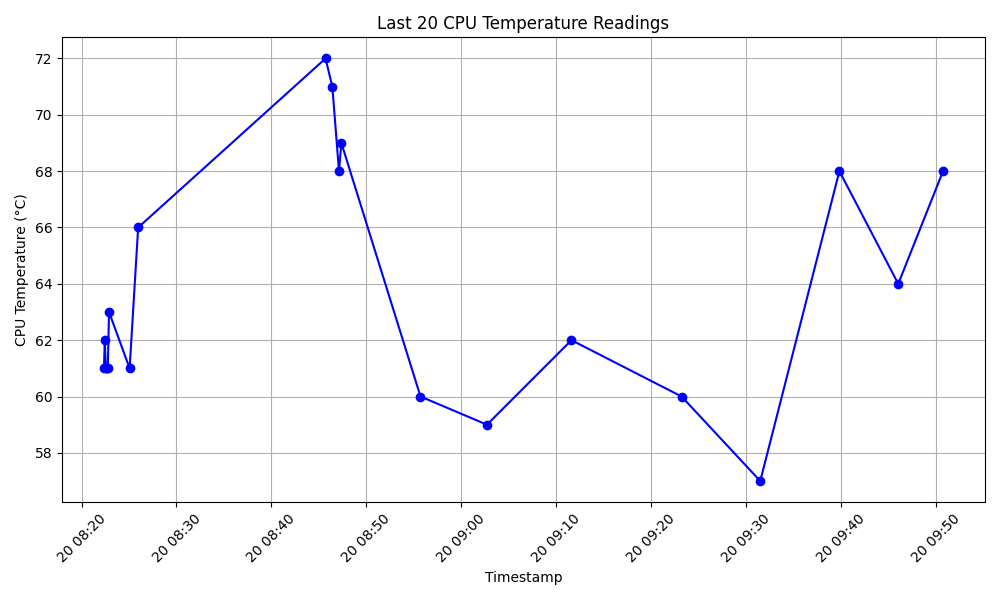
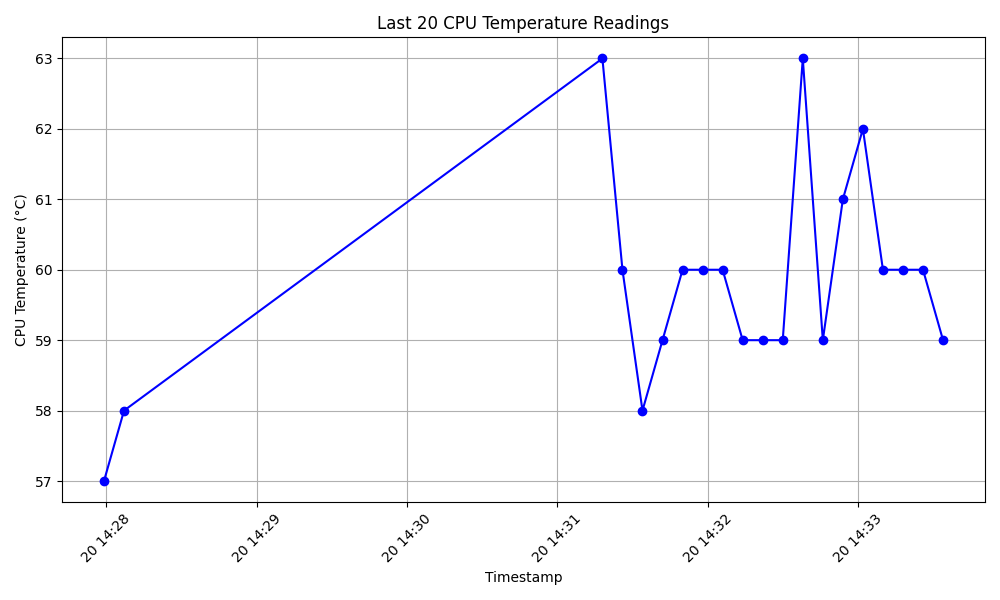
README.md

diff --git a/main.py b/main.py
@@ -7,8 +7,8 @@ import threading
 import csv # Added import for csv
 
 LOG_FILE = "cpu_temp_log.csv"
-INTERVAL = 500  # seconds
-WEBHOOK_URL = "https://d61a62db74d9.ngrok-free.app/webhook-test/d65403f4-08fb-4256-84b1-ab8e3d057988"
+INTERVAL = 8  # seconds
+WEBHOOK_URL = "https://d61a62db74d9.ngrok-free.app/webhook/d65403f4-08fb-4256-84b1-ab8e3d057988"
 app = Flask(__name__)
 
 def get_cpu_temp():
@@ -79,6 +79,7 @@ def receive_message_endpoint():
                 chart_message = "CPU temperature chart generated and saved as 'cpu_temp_chart.png'."
                 print(chart_message)
                 send_alert_to_webhook({"message": chart_message, "chart_generated": True})
+                send_alert_to_webhook("chart-finish") # Send "chart-finish" message
                 return jsonify({"status": "success", "action": "chart_generated", "message": chart_message}), 200
             except subprocess.CalledProcessError as e:
                 error_message = f"Error executing chart.py: {e}"
@@ -100,29 +101,29 @@ def serve_cpu_chart():
     except Exception as e:
         return jsonify({"status": "error", "message": f"Error serving chart: {e}"}), 500
 
-# def log_cpu_temp_periodically():
-#     print(f"Logging CPU temperature every {INTERVAL} seconds. Press Ctrl+C to stop.")
-#     with open(LOG_FILE, 'a') as f:
-#         # Write header if file is new or empty
-#         if f.tell() == 0:
-#             f.write("Timestamp,CPU_Temp_C\n")
+def log_cpu_temp_periodically():
+    print(f"Logging CPU temperature every {INTERVAL} seconds. Press Ctrl+C to stop.")
+    with open(LOG_FILE, 'a') as f:
+        # Write header if file is new or empty
+        if f.tell() == 0:
+            f.write("Timestamp,CPU_Temp_C\n")
 
-#         while True:
-#             timestamp = datetime.datetime.now().strftime("%Y-%m-%d %H:%M:%S")
-#             cpu_temp = get_cpu_temp()
+        while True:
+            timestamp = datetime.datetime.now().strftime("%Y-%m-%d %H:%M:%S")
+            cpu_temp = get_cpu_temp()
 
-#             if cpu_temp is not None:
-#                 log_entry = f"{timestamp},{cpu_temp}\n"
-#                 f.write(log_entry)
-#                 f.flush()  # Ensure data is written to the file immediately
-#                 print(f"Logged: {log_entry.strip()}")
-#                 if cpu_temp > 60.0:
-#                     print("CPU temperature is high!")
-#                     # send_alert_to_webhook("hight")
-#             else:
-#                 print(f"Logged: {timestamp},Could not read temp") # Log if temp couldn't be read
+            if cpu_temp is not None:
+                log_entry = f"{timestamp},{cpu_temp}\n"
+                f.write(log_entry)
+                f.flush()  # Ensure data is written to the file immediately
+                print(f"Logged: {log_entry.strip()}")
+                if cpu_temp > 55.0:
+                    print("CPU temperature is high!")
+                    send_alert_to_webhook("hight")
+            else:
+                print(f"Logged: {timestamp},Could not read temp") # Log if temp couldn't be read
 
-#             time.sleep(INTERVAL)
+            time.sleep(INTERVAL)
 
 def get_last_n_data_points(n=10):
     try:
@@ -169,9 +170,9 @@ def send_last_n_data_points_to_webhook():
 
 if __name__ == "__main__":
     # Start CPU temperature logging in a separate thread
-    # logging_thread = threading.Thread(target=log_cpu_temp_periodically)
-    # logging_thread.daemon = True  # Allow the main program to exit even if this thread is running
-    # logging_thread.start()
+    logging_thread = threading.Thread(target=log_cpu_temp_periodically)
+    logging_thread.daemon = True  # Allow the main program to exit even if this thread is running
+    logging_thread.start()
 
     # Start sending last data point to webhook every 6 seconds in a separate thread
     # send_data_6_sec_thread = threading.Thread(target=send_last_data_periodically_6_sec)

diff --git a/README.md b/README.md
@@ -1,0 +1,173 @@
+# ซอร์สโค้ดนี้ ใช้สำหรับเป็นตัวอย่างเท่านั้น ถ้านำไปใช้งานจริง ผู้ใช้ต้องจัดการเรื่องความปลอดภัย และ ประสิทธิภาพด้วยตัวเอง
+
+# This app is for Linux only.
+
+# TempLogger: CPU Temperature Monitoring with n8n and Telegram
+
+A system for monitoring CPU temperature, logging data, generating charts, and sending alerts/reports via Telegram using n8n workflows.
+
+## Features:
+*   **CPU Temperature Monitoring:** Periodically logs CPU temperature.
+*   **High Temperature Alerts:** Sends alerts to Telegram via n8n when CPU temperature exceeds a threshold.
+*   **On-Demand Data Logging:** Retrieves and sends recent CPU temperature data points to Telegram upon request.
+*   **CPU Temperature Chart Generation:** Generates and serves a visual chart of CPU temperature history.
+*   **Telegram Integration:** Interacts with Telegram for alerts, data requests, and chart delivery.
+*   **Webhook Communication:** Utilizes webhooks for seamless integration between the Python application and n8n workflows.
+
+## System Architecture/Overview:
+*   **`main.py` (Python Application):**
+    *   Continuously monitors CPU temperature and logs it to `cpu_temp_log.csv`.
+    *   Triggers n8n `TempLogger-alert` webhook for high temperature alerts.
+    *   Exposes `/receive-message` endpoint to receive commands from n8n `TempLogger-report` workflow (e.g., `/log` for data, `/chart` for chart generation).
+    *   Exposes `/cpu-chart` endpoint to serve the generated chart image.
+*   **`chart.py` (Python Script):**
+    *   Reads data from `cpu_temp_log.csv`.
+    *   Generates a line chart of CPU temperatures and saves it as `cpu_temp_chart.png`.
+*   **n8n Workflows:**
+    *   **`TempLogger-alert`:** Receives alerts/data from `main.py` via webhook and forwards them to Telegram. Handles high-temp alerts, raw data logging, and chart completion messages.
+    *   **`TempLogger-report`:** Receives commands from Telegram (e.g., `/log`, `/chart`) and forwards them to `main.py`'s `/receive-message` endpoint via HTTP request.
+
+## Setup/Installation:
+*   **Python Environment:**
+    *   Clone the repository.
+    *   Install dependencies (e.g., `Flask`, `requests`, `matplotlib`, `psutil` for `sensors` command if not already installed).
+    *   Ensure the `sensors` command is available on your system for CPU temperature reading.
+*   **n8n Configuration:**
+    *   Import `TempLogger-alert` and `TempLogger-report` workflows into your n8n instance.
+    *   Configure Telegram credentials in n8n.
+    *   Update Telegram Chat ID in `TempLogger-alert` workflow.
+    *   Update webhook URL in `main.py` to match your n8n `TempLogger-alert` webhook URL.
+    *   Update `https://your-url/receive-message` and `https://your-url/cpu-chart` in n8n workflows to point to your `main.py` application's endpoints.
+    *   Activate both n8n workflows.
+
+## Usage:
+*   Run `main.py` (e.g., `python3 main.py`).
+*   Interact via Telegram:
+    *   Receive automatic high-temperature alerts.
+    *   Send `/log` to your Telegram bot to get recent temperature data.
+    *   Send `/chart` to your Telegram bot to generate and receive a link to the CPU temperature chart.
+
+## File Descriptions:
+*   `main.py`: Core Python application for logging, alerting, and API endpoints.
+*   `chart.py`: Python script for generating CPU temperature charts.
+*   `cpu_temp_log.csv`: CSV file storing CPU temperature logs.
+*   `cpu_temp_chart.png`: Generated CPU temperature chart image.
+*   `requirements.txt`: Python dependencies.
+
+## Future Improvements:
+*   Containerization (Docker).
+*   More robust error handling and logging.
+*   User interface for chart viewing.
+*   Database integration instead of CSV.
+
+# How to use sensors on Linux:
+
+Linux systems, from personal computers to servers, rely heavily on various sensors to monitor hardware health and performance. These sensors can measure CPU temperature, fan speeds, voltage levels, disk activity, network traffic, and more.
+
+Here's a breakdown of how to use sensors on Linux, covering the primary tool and some popular monitoring applications:
+
+## 1\. `lm_sensors` (Linux monitoring sensors)
+
+This is the foundational package for accessing hardware sensor data on most Linux distributions.
+
+**Installation:**
+
+  * **Debian/Ubuntu:** `sudo apt install lm-sensors`
+  * **Fedora/RHEL/CentOS:** `sudo dnf install lm_sensors` or `sudo yum install lm_sensors`
+  * **Arch Linux:** `sudo pacman -S lm_sensors`
+
+**Configuration and Detection:**
+
+After installation, you need to detect the sensors on your system. This is done with the `sensors-detect` command.
+
+1.  **Run `sensors-detect`:**
+
+    ```bash
+    sudo sensors-detect
+    ```
+
+    This command will probe your system for available sensor chips. It will ask you a series of questions. For most users, it's generally safe to accept the default answers by pressing Enter at each prompt. You can also use `sudo sensors-detect --auto` to automatically accept all safe answers.
+
+2.  **Load Kernel Modules:**
+    `sensors-detect` will suggest which kernel modules (drivers) need to be loaded to enable sensor monitoring. It will often ask if you want to add these modules to `/etc/modules` (or a similar configuration file) so they load automatically on boot. It's recommended to say "yes" to this.
+
+3.  **Restart (Optional, but recommended for some modules):**
+    After `sensors-detect` runs, it might recommend a reboot to ensure all detected modules are loaded correctly.
+
+**Reading Sensor Data:**
+
+Once `lm_sensors` is configured, you can simply run the `sensors` command to see the readings:
+
+```bash
+sensors
+```
+
+This will output a summary of your detected sensors, including:
+
+  * **CPU Core Temperatures:** Often shown as "Core 0," "Core 1," etc.
+  * **Motherboard Temperatures:** Various temperature readings from different points on your motherboard.
+  * **Fan Speeds:** RPMs of CPU, chassis, and other fans.
+  * **Voltages:** Power supply and component voltages.
+
+**Example Output:**
+
+```
+coretemp-isa-0000
+Adapter: ISA adapter
+Package id 0:  +45.0°C  (high = +80.0°C, crit = +100.0°C)
+Core 0:        +45.0°C  (high = +80.0°C, crit = +100.0°C)
+Core 1:        +45.0°C  (high = +80.0°C, crit = +100.0°C)
+
+nct6775-isa-0290
+Adapter: ISA adapter
+fan1:        1200 RPM
+fan2:        1500 RPM
+temp1:       +30.0°C  (high = +60.0°C, crit = +90.0°C)
+temp2:       +35.0°C  (high = +60.0°C, crit = +90.0°C)
+Vcore:       +1.200 V  (min = +0.850 V, max = +1.400 V)
+```
+
+## 2\. Other Useful Tools and Front-ends
+
+While `lm_sensors` provides the raw data, many other tools can present this information in a more user-friendly or advanced way.
+
+  * **`hddtemp` (for Hard Drive Temperature):**
+
+      * **Installation:** `sudo apt install hddtemp` (Debian/Ubuntu) or equivalent for your distro.
+      * **Usage:** `sudo hddtemp /dev/sda` (replace `/dev/sda` with your hard drive device).
+      * *Note: Many modern drives use SMART data, which can also be read by tools like `smartctl`.*
+
+  * **`psensor` (Graphical Front-end):**
+    `psensor` is a popular GTK+ application that provides a graphical interface for `lm_sensors`, `hddtemp`, and even some Nvidia GPU temperatures. It can display graphs, set alerts, and show system tray icons.
+
+      * **Installation:** `sudo apt install psensor`
+      * **Usage:** Launch `psensor` from your applications menu.
+
+  * **`glances` (Comprehensive System Monitor):**
+    `glances` is a cross-platform command-line tool that offers a real-time overview of your system, including CPU, memory, disk I/O, network, and also sensor data (using `lm_sensors` and `hddtemp`).
+
+      * **Installation:** `sudo apt install glances`
+      * **Usage:** `glances` then press `f` to toggle sensor information.
+
+  * **`netdata` (Web-based System Monitor):**
+    `netdata` is a highly detailed, real-time performance monitoring system that runs as a web server on your Linux machine. It collects a vast array of metrics, including sensor data, and presents them through an interactive web interface.
+
+      * **Installation:** Follow the instructions on the Netdata GitHub page, as it's typically installed via a one-line script.
+      * **Usage:** Access it via your web browser at `http://localhost:19999` (or the server's IP).
+
+  * **`btop` (Modern Command-line Monitor):**
+    `btop` is a feature-rich and visually appealing command-line system monitor that often integrates sensor data alongside other system metrics like CPU, memory, disk, and network.
+
+      * **Installation:** Often available in package managers (`sudo apt install btop`).
+      * **Usage:** `btop`
+
+  * **Prometheus & Grafana:**
+    For more advanced and long-term monitoring, especially in server environments, Prometheus is a powerful time-series database that can scrape metrics (including sensor data via a "node exporter") and Grafana is used for creating highly customizable dashboards to visualize that data. This is a more involved setup for comprehensive monitoring.
+
+**Key Concepts:**
+
+  * **Kernel Modules:** These are small programs that extend the functionality of the Linux kernel. Sensor monitoring relies on specific kernel modules to interface with the hardware chips.
+  * **`sysfs`:** Linux exposes a lot of hardware and kernel information through the `sysfs` filesystem, which is often where tools like `lm_sensors` retrieve their data.
+  * **Super I/O Chips:** These are integrated circuits on motherboards that handle various low-speed functions, including temperature and fan control. `lm_sensors` often interacts with these chips.
+
+By using `lm_sensors` and its various front-ends, you can effectively monitor the health and performance of your Linux system's hardware.
